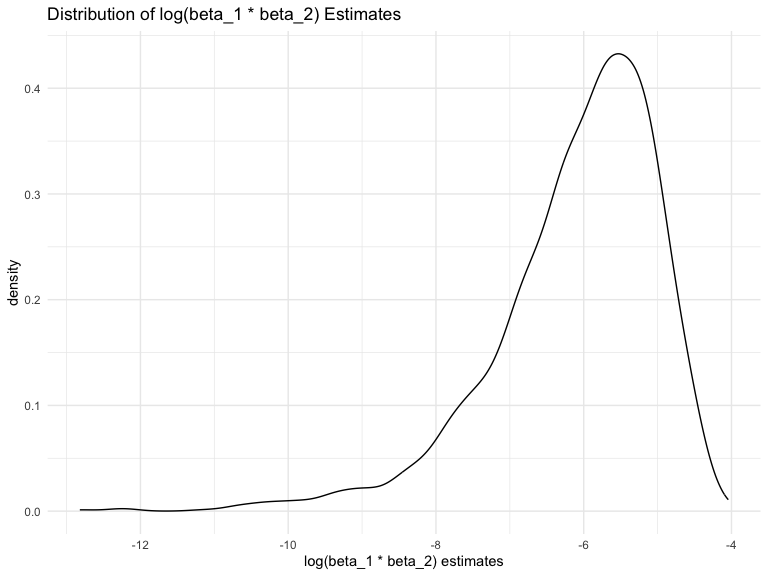
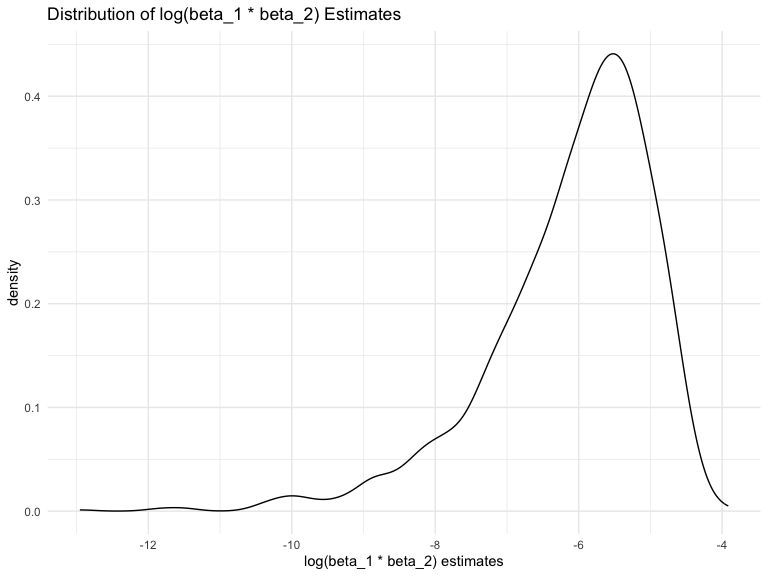
final version!

diff --git a/p8105_hw6_cl4469.md b/p8105_hw6_cl4469.md
@@ -27,7 +27,6 @@ library(viridis)
 ``` r
 library(modelr)
 
-
 knitr::opts_chunk$set(
     echo = TRUE,
     warning = FALSE,
@@ -265,8 +264,8 @@ r_squared_ci
 
 |       |         x |
 |:------|----------:|
-| 2.5%  | 0.8897861 |
-| 97.5% | 0.9409187 |
+| 2.5%  | 0.8897629 |
+| 97.5% | 0.9402931 |
 
 The 95% confidence interval for log(beta_1 \* beta_2)
 
@@ -281,8 +280,8 @@ log_beta12_ci
 
 |       |         x |
 |:------|----------:|
-| 2.5%  | -8.972816 |
-| 97.5% | -4.562658 |
+| 2.5%  | -8.910590 |
+| 97.5% | -4.574176 |
 
 ### Problem 3
 
